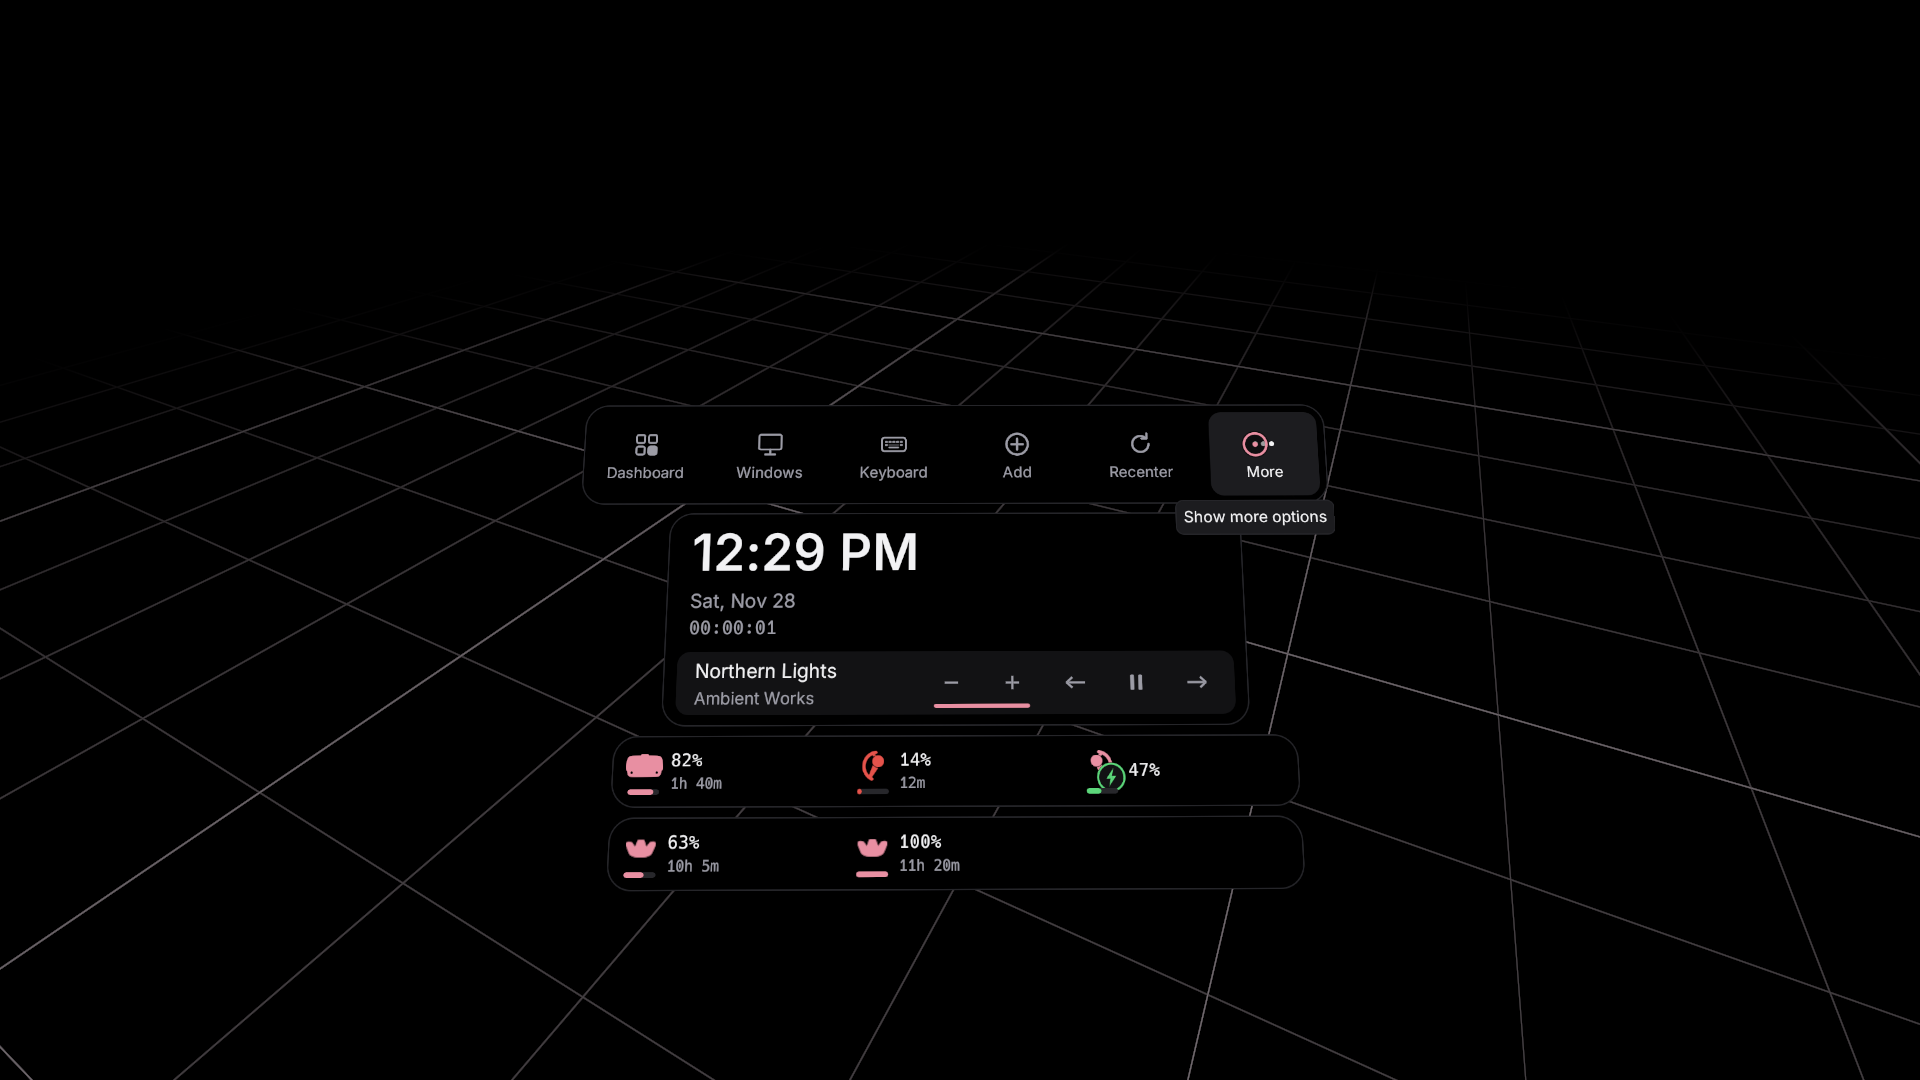
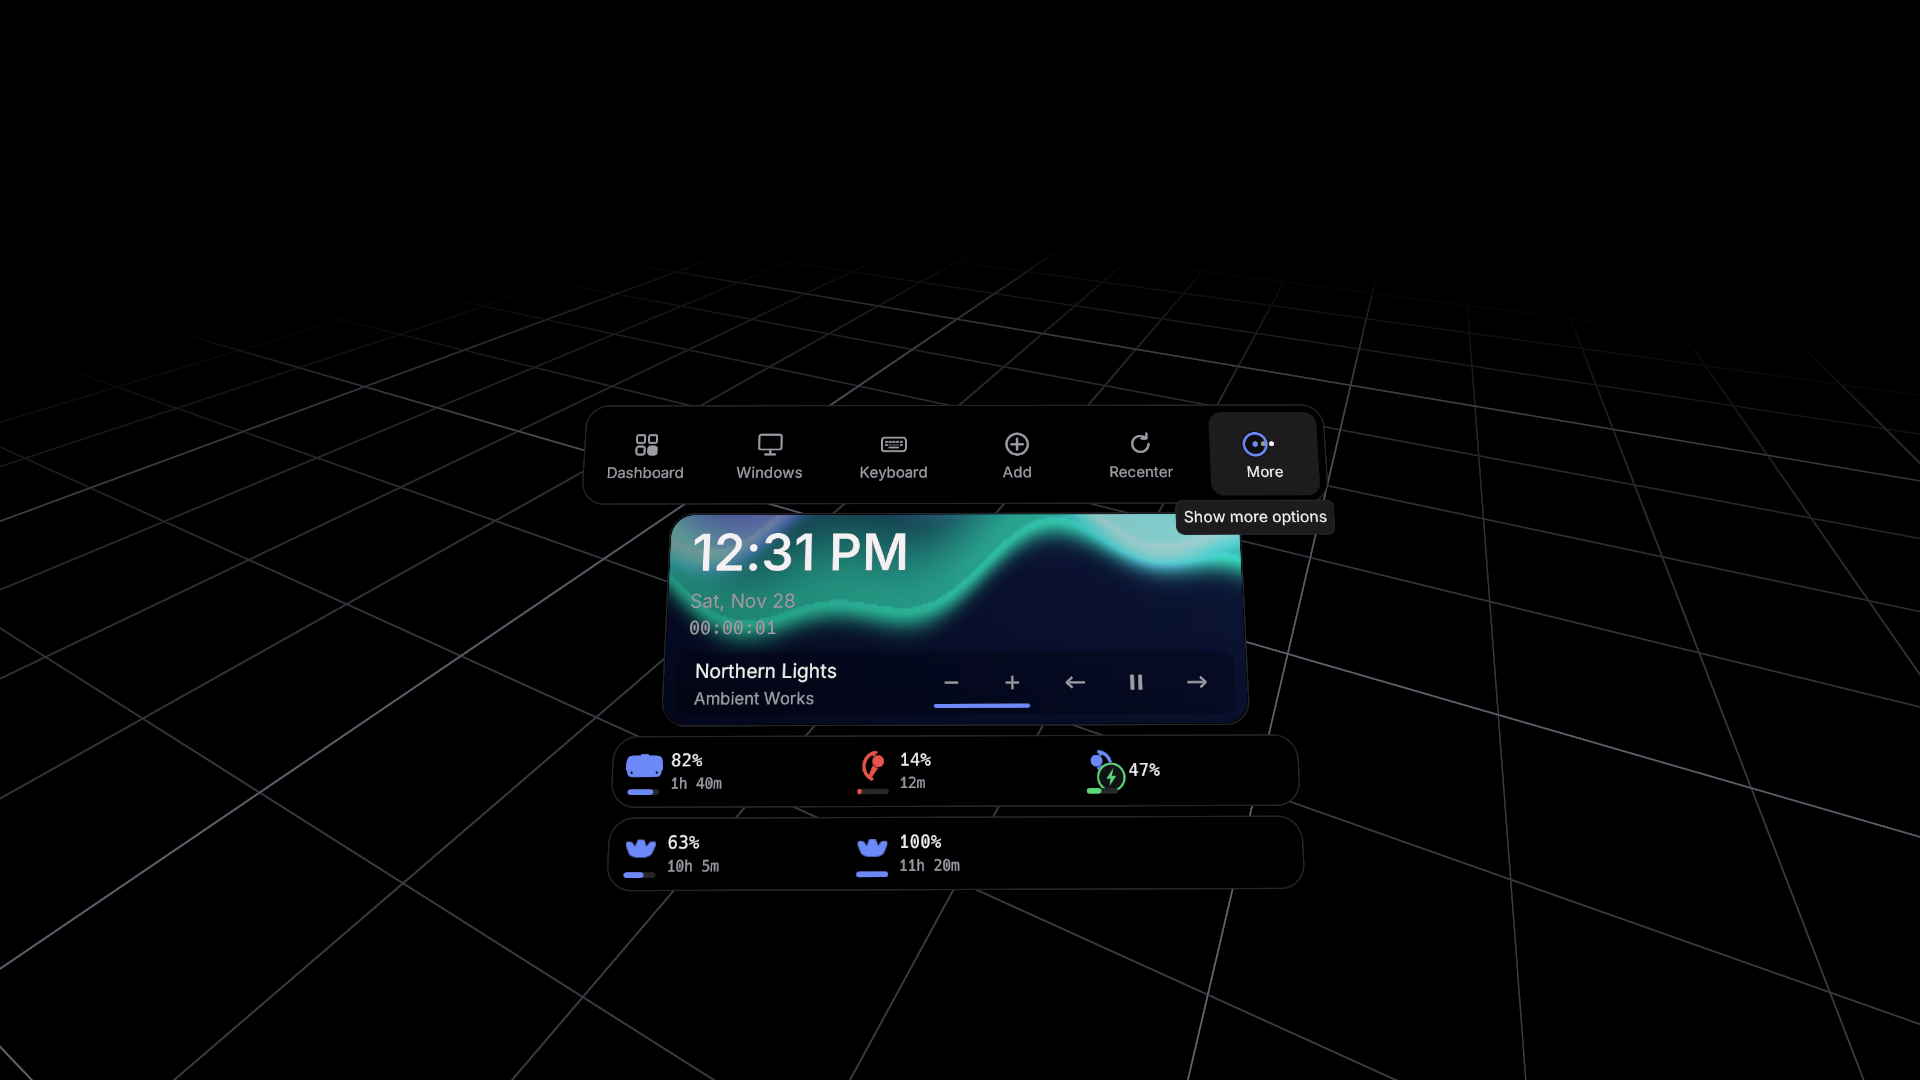
Store / README wrist shots show the album cover
The VR preview's wrist scenes turn on Media theme with the made-up
"Northern Lights" aurora cover (no real album art); the wide scenes
keep the default accent so the overview reads as one product. The
overview caption mentions the cover.

diff --git a/crates/rsoverlay-app/src/preview_vr.rs b/crates/rsoverlay-app/src/preview_vr.rs
@@ -314,6 +314,8 @@ pub fn run(
     crate::preview::seed_dev_view(&mut dev_view, &app_config, &hooks);
     dev_view.dock_layout = true;
     dev_view.set_demo_media("Northern Lights", "Ambient Works");
+    // A made-up cover for the Media theme (shown on the wrist scenes).
+    dev_view.set_demo_art();
     // The volume mixer lists the PC's real audio apps; keep it out.
     dev_view.show_volume = false;
     let mut keyboard = VrKeyboard::default();
@@ -333,6 +335,10 @@ pub fn run(
     let beam = scene.quad(&gpu, &beam_tex.view);
 
     let mut preset = Preset::from_arg(test.scene.as_deref());
+    // Wrist close-ups show the Media theme's album cover; the wide scenes
+    // keep the default accent so the overview reads as one product.
+    let media_theme = |p: Preset| matches!(p, Preset::WristCompact | Preset::WristExpanded);
+    dev_view.media_theme = media_theme(preset);
     let mut panels = build(&gpu, &scene, preset);
     let mut camera = OrbitCamera::framing(preset);
     let mut input = InputState::default();
@@ -354,6 +360,7 @@ pub fn run(
                     let c = c.as_str();
                     if let Some(p) = c.parse::<usize>().ok().and_then(|n| n.checked_sub(1)).and_then(|i| Preset::ALL.get(i)) {
                         preset = *p;
+                        dev_view.media_theme = media_theme(preset);
                         panels = build(&gpu, &scene, preset);
                         camera = OrbitCamera::framing(preset);
                         info!("VR preview: scene '{}'", preset.name());

diff --git a/tools/make-overview.py b/tools/make-overview.py
@@ -14,7 +14,7 @@ SHOTS = [
     ('vr-dashboard', 'Dashboard', 'labelled sidebar · search · pop-out widgets', None),
     ('vr-social', 'Social VR', 'chatbox + keyboard · notifications · now playing', None),
     ('vr-gaming', 'In game', 'guide pinned aside · media and battery widgets · wrist', None),
-    ('vr-wrist-compact', 'Wrist toolbar', 'compact by default: the everyday four + More', WRIST_CROP),
+    ('vr-wrist-compact', 'Wrist toolbar', 'the everyday buttons + More · album cover while music plays', WRIST_CROP),
     ('vr-wrist-expanded', 'Wrist toolbar, More', 'every action, layout slots, views, batteries', WRIST_CROP),
 ]
 TW, TH = 1152, 648

diff --git a/docs/store/README.md b/docs/store/README.md
@@ -15,8 +15,8 @@ UI frame time); "overlay fps 90" is representative of a 90 Hz headset.
 | `vr-gaming.png` | game guide, media/macros + battery widgets, wrist expanded |
 | `vr-social.png` | dashboard on Chat, keyboard, notifications + media |
 | `vr-dashboard.png` | dashboard Home, popped-out stats widget |
-| `vr-wrist-compact.png` | wrist close-up, compact set (More) |
-| `vr-wrist-expanded.png` | wrist close-up, everything shown (Less) |
+| `vr-wrist-compact.png` | wrist close-up, compact set (More), Media theme with a demo album cover |
+| `vr-wrist-expanded.png` | wrist close-up, everything shown (Less), demo album cover |
 
 Regenerate (after UI changes):
 
